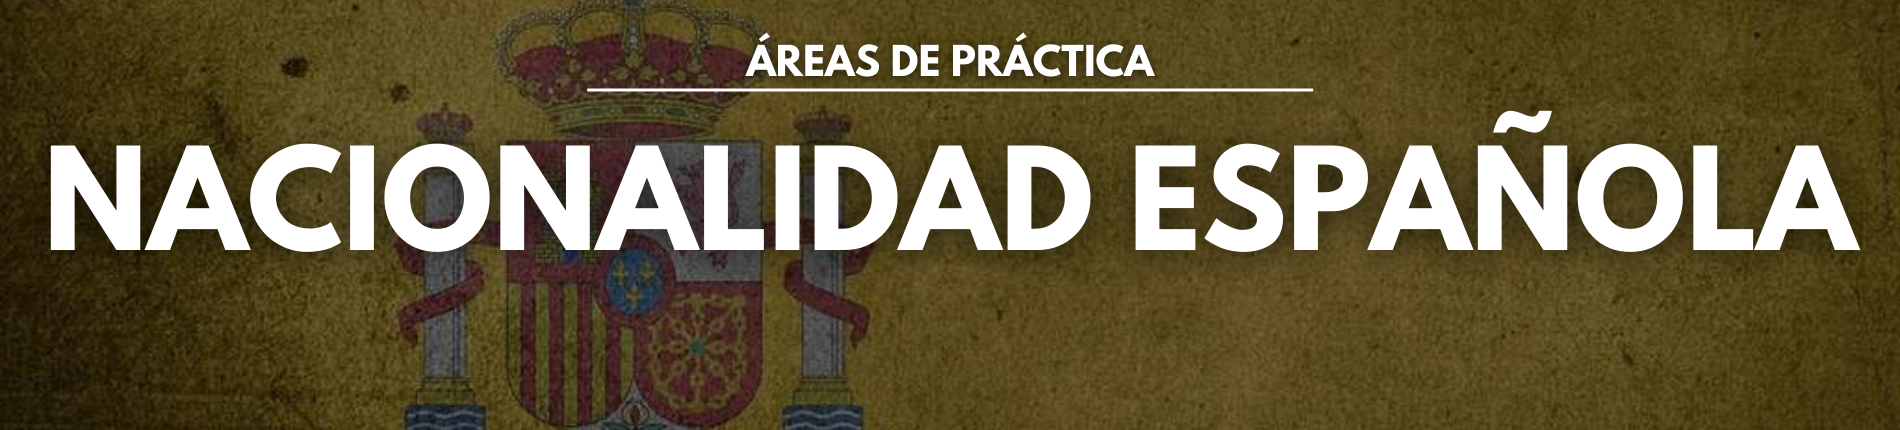
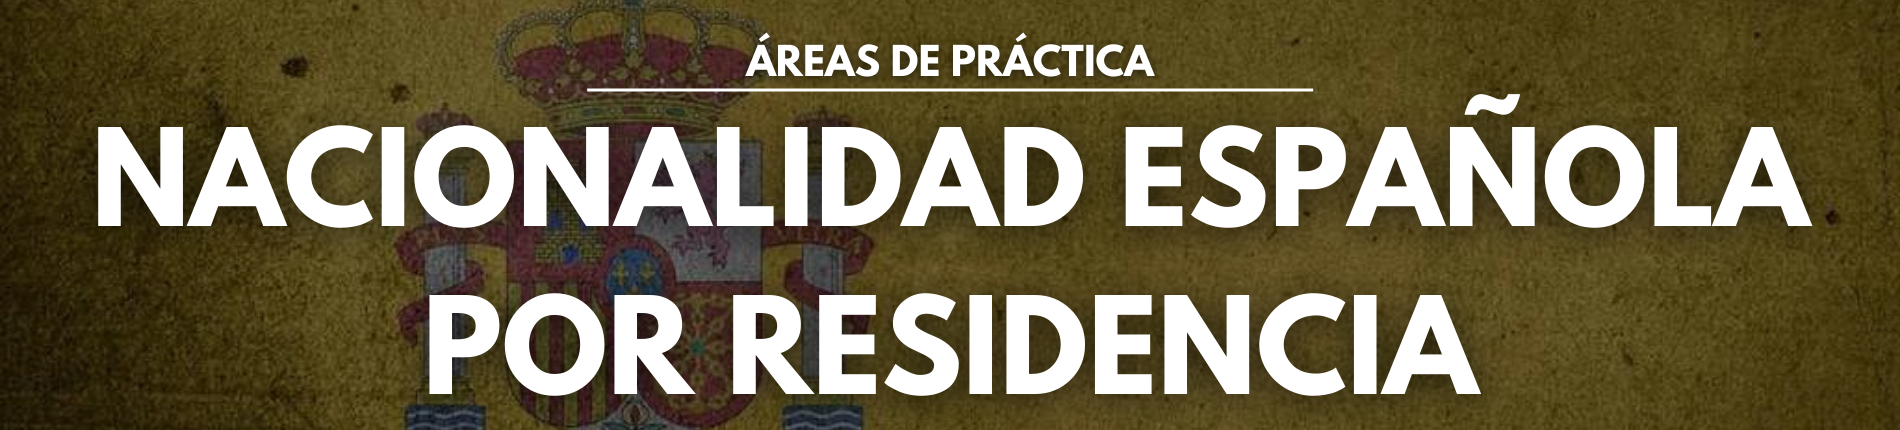
Formulario nuevo y cambio de NAC. ESP.

Changed region(s): [[0.0, 0.2116, 0.9937, 0.6047], [0.2174, 0.6651, 0.7763, 0.9372]]

diff --git a/pages/adp/nac-esp.html b/pages/adp/nac-esp.html
@@ -99,6 +99,11 @@
                     <li>2 años de residencia legal en España para todos los Iberoamericanos</li>
                 </ul>
 
+                <a href="https://docs.google.com/forms/d/e/1FAIpQLSckpYO1A9-Y_nv6812CVnPIjs8Xwe-SHSEfLeglkrT_70fnZg/viewform" class="a-volver"><button class="button-volver"> <svg xmlns="http://www.w3.org/2000/svg" width="16" height="16" fill="currentColor" class="bi bi-arrow-right-square-fill" viewBox="0 0 16 16">
+                    <path d="M0 14a2 2 0 0 0 2 2h12a2 2 0 0 0 2-2V2a2 2 0 0 0-2-2H2a2 2 0 0 0-2 2v12zm4.5-6.5h5.793L8.146 5.354a.5.5 0 1 1 .708-.708l3 3a.5.5 0 0 1 0 .708l-3 3a.5.5 0 0 1-.708-.708L10.293 8.5H4.5a.5.5 0 0 1 0-1z"/>
+                  </svg> COMPLETÁ EL FORMULARIO DE CONTACTO Y SOLICITUD DE SERVICIOS <svg xmlns="http://www.w3.org/2000/svg" width="16" height="16" fill="currentColor" class="bi bi-arrow-left-square-fill" viewBox="0 0 16 16">
+                    <path d="M16 14a2 2 0 0 1-2 2H2a2 2 0 0 1-2-2V2a2 2 0 0 1 2-2h12a2 2 0 0 1 2 2v12zm-4.5-6.5H5.707l2.147-2.146a.5.5 0 1 0-.708-.708l-3 3a.5.5 0 0 0 0 .708l3 3a.5.5 0 0 0 .708-.708L5.707 8.5H11.5a.5.5 0 0 0 0-1z"/>
+                  </svg></button></a>
     
             </div>
         </section>
